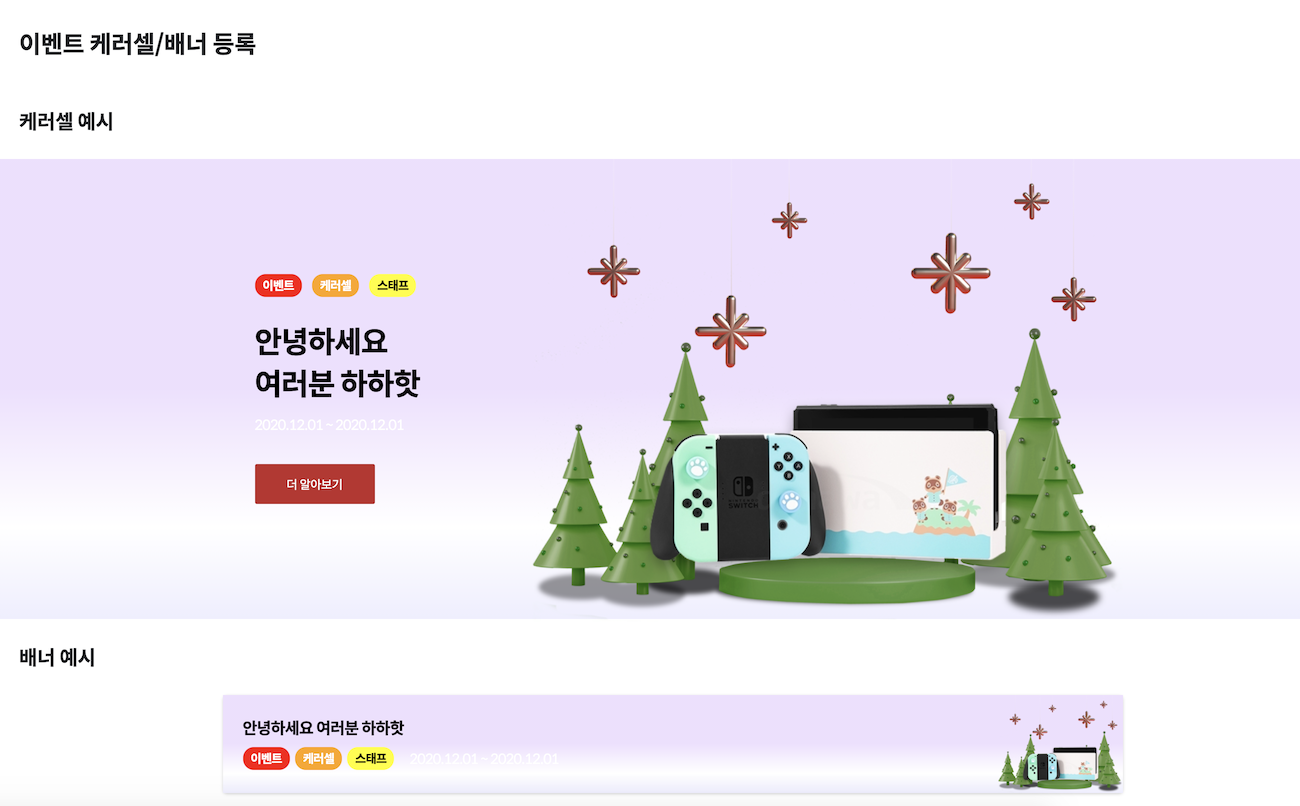
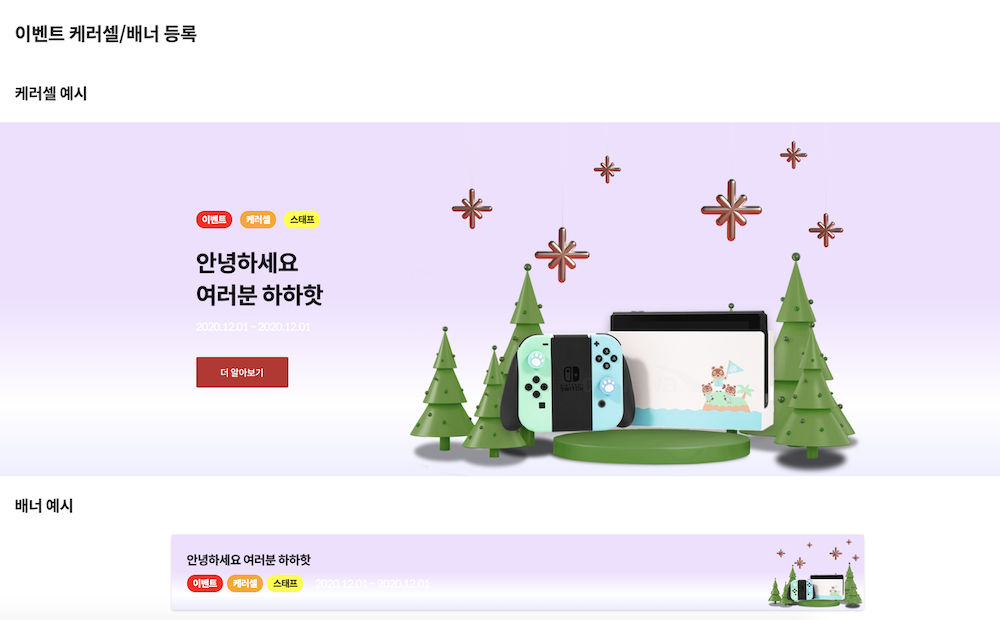
ADD: 회고분석 내용 추가

diff --git a/_posts/2021_01_28_internship-review3.md b/_posts/2021_01_28_internship-review3.md
@@ -6,15 +6,38 @@ description: 인턴 기간 찾아온 두 번째 위기
 ---
 2주마다 스프린트 회고 시간에 행복도 점수를 매기는데, 이번 2주의 행복도 점수를 5점 만점에 4.5점을 줬다! 일이 생각보다 오래 걸려 밀리는 경향이 있지만 모든 일이 새롭고 재밌다. 일만 재밌으면 3점일 텐데 같이 일하는 사람들이 너무 너무 좋아서 4점!(밥 먹고 노닥거리는 시간도 재밌다~) 그리고 눈도 안 와서 +0.5점 해서 4.5점이다.
 
-![행복합니다](/images/internship-3-안녕.jpg)
+![노는게 제일 좋아](/images/internship-3-안녕.jpg)
 
-## 인턴 적응기 <span style="color:#6741d9">(6주 차)</span>
+## <span style="color:#6741d9">분석왕</span> 채세이
+위에서 말했듯이 우리 팀은 2주마다 스프린트 회고 시간에 행복도 점수를 매긴다. 2020년 동안 총 22개의 스프린트가 쌓였는데, 이 데이터를 분석하기로 했다.
+
+1. raw data 만들기
+
+   처음에는 스프린트 X 사용자 해서 2차원 테이블로 만들었는데, 나중에 다양한 분석을 적용할 때나 데이터 추가에 따른 자동화를 위해서 1차원 테이블로 만들었다.
+   
+2. 정량적 분석
+   
+   숫자 데이터 행복도 점수가 있어서 이 정보로 정량적 분석을 진행했다. 함수를 이용해 평균, 표준편차 등을 계산하고 시계열 그래프와 Box Plot 등을 만들었다.
+
+   ![회고 분석](/images/internship-3-회고분석.png)
+   
+3. 정성적 분석과 분석자의 날카로운 의견
+   
+   그 후 상위/하위 각각 3개의 스프린트 리뷰와 총 리뷰를 읽으면서 멤버별로 분석자(나) 종합 의견을 정리했다. 분석을 위해 다른 사람의 리뷰를 읽다 보니 각각의 회사 연대기를 보는 거 같아서 재밌었다.
+   
+그렇게 분석을 끝내고 팀원들과 공유했는데 다들 반응이 좋아서 뿌듯했다.
+
+![회고 분석 반응](/images/internship-3-분석반응.png)
+
+
+## <span style="color:#6741d9">인턴 두 번째 위기</span>
+
 ### 네?? <span style="color:#6741d9">프런트</span>를 하라고요?
 <이벤트 케러셀 스태프 페이지 만들기>라는 업무를 받았을 때는 현재 있는 스태프 페이지를 수정하는 정도인 줄 알았다. 가벼운 마음으로 디자이너이신 미혜님과 얘기하는데 생각보다 (내 기준) 스케일이 큰일이라서 당황했다. 현재 이벤트가 있을 때마다 이벤트 케러셀과 배너를 하나씩 직접 만든다. 중복작업이 많기에 이를 자동화하는 스태프 페이지를 만들어달라는 것이 요구 사항이었다.
 
 으아아아아 Django 도 이제 익숙해져서 할 만한데 Vue.js를 이용한 프런트 작업이라니!!! 2학년 때 쇼핑몰 만들기 과제를 했던 기억이 떠올랐다. 그때 프런트의 매운맛을 맛보고 그 이후로 프런트를 해본 적이 없는데. 사실 스태프 페이지는 에잇퍼센트 서비스 이용자가 쓰는 것은 아니라서 그렇게 잘 만들 필요는 없지만 그래도 막막했다.
 
-게다가 프런트만 하는 게 아니라 백엔드 작업도 해야하고 결국에는 실제 에잇퍼센트 이벤트 케러셀과 배너 창에 적용해야 한다. 부담 **100** 을 넘어서 **10000** 에 이르러 인턴 두 번째 위기가 온거 같았지만 그래도 하고 싶은 마음이 더 컸다.
+게다가 프런트만 하는 게 아니라 백엔드 작업도 해야 하고 결국에는 실제 에잇퍼센트 이벤트 케러셀과 배너 창에 적용해야 한다. 부담 **100** 을 넘어서 **10000** 에 이르러 인턴 두 번째 위기가 온 거 같았지만 그래도 하고 싶은 마음이 더 컸다.
 
 ### 오랜만에 <span style="color:#6741d9">고3</span> 모드
 그날부터 Vue.js 책을 2권을 빌렸다. 학교 도서관에서 <Do it! Vue.js 입문>라는 책과 우리 팀에서 <Vue.js 철저 입문 : 기초부터 실전 애플리케이션 개발까지>라는 책을 빌렸다. 출퇴근 시간이 3시간인데 그 시간에 빌린 책을 읽었다. 퇴근 후나 주말에는 출/퇴근하면서 읽은 부분 예제를 연습했다. 학교 다닐 때보다 더 열심히 공부한 거 같다. Vue.js를 이렇게 일주일 정도 공부하니 드디어 현 케러셀과 배너 코드가 이해 가기 시작했고, 어떻게 만들어야 할지 감이 왔다.
@@ -28,9 +51,9 @@ description: 인턴 기간 찾아온 두 번째 위기
 
 2. 입력받은 속성값 바로 적용되도록 바꾸기
    
-    이미 고정된 속성값을 바탕으로 만든 케러셀과 배너이기에 수정이 필요했다. 스태프 페이지에서 input 으로 받은 값을 토대로 케러셀과 배너가 바뀌도록 만들어야 했다. Input을 받아 css 속성값을 바꾸는 부분이 헷갈렸는데 크게 2가지 방법 중 좀 더 보편적인 1번 방법을 이용했다.
+    이미 고정된 속성값을 바탕으로 만든 케러셀과 배너이기에 수정이 필요했다. 스태프 페이지에서 input으로 받은 값을 토대로 케러셀과 배너가 바뀌도록 만들어야 했다. Input을 받아 CSS 속성값을 바꾸는 부분이 헷갈렸는데 크게 2가지 방법 중 좀 더 보편적인 1번 방법을 이용했다.
     * input 태그로 받아 data에 저장된 속성값을 :style binding으로 넣어주기
-    * Computed 에서 ‘--[변수 이름]’: this.[input 태그로 받아 data에 저장된 속성 변수] 만든 후 style block에서 var(--[변수 이름]) 로 지정하기
+    * Computed에서 ‘--[변수 이름]’: this.[input 태그로 받아 data에 저장된 속성 변수] 만든 후 style block에서 var(--[변수 이름])로 지정하기
      
 3. 이미지 업로드 및 프리뷰 기능 구현하기
 
@@ -42,14 +65,14 @@ description: 인턴 기간 찾아온 두 번째 위기
    
 ![이벤트 스태프](/images/internship-3-이벤트.png)
 
-### 데모 발표표
-<이벤트 케러셀 스태프 페이지 만들기> 첫번째 목표인 관리자 어드민 페이지 프런트 작업이 끝난 당일 데모가 있었다. 각자 만든 기능을 다 같이 공유하는 시간이다. 계획에는 없었지만, 데모에 내가 만든 스태프 페이지를 보여주며 발표하기로 했다…!! 다들 아주 잘 만들었다고 원하던 기능이 싹 다 있다고 수고했다고 하셨다. 잘 마무리해서 다행이다. 모두 가이드를 잡아 주시고 물어보는 것마다 다 대답해주신 동현님과 연오님 덕분이다. 앞으로 남은 부분도 잘 마무리하고 가야겠다.
+### <span style="color:#6741d9">데모 발표</span>
+<이벤트 케러셀 스태프 페이지 만들기> 첫 번째 목표인 관리자 어드민 페이지 프런트 작업이 끝난 당일 데모가 있었다. 각자 만든 기능을 다 같이 공유하는 시간이다. 계획에는 없었지만, 데모에 내가 만든 스태프 페이지를 보여주며 발표하기로 했다…!! 다들 아주 잘 만들었다고 원하던 기능이 싹 다 있다고 수고했다고 하셨다. 잘 마무리해서 다행이다. 모두 가이드를 잡아 주시고 물어보는 것마다 다 대답해주신 동현님과 연오님 덕분이다. 앞으로 남은 부분도 잘 마무리하고 가야겠다.
 
 ![데모발표](/images/internship-3-데모발표.jpg)
 
 ## <span style="color:#6741d9">에피소드</span>
 ### 성균관대 동계 인턴십 - Finternet 네트워킹 행사
-나랑 같이 인턴 오신 분이 있다. 같은 학교 같은 나이 같은 인턴이라는 점 때문에 금방 친해졌다. (혹시 같이 인턴 온 미연님의 글이 궁금하다면 —> [8퍼센트의 새로운 희망, 인턴 박미연](https://brunch.co.kr/@8percent/138)) 미연님과 친해지면서 다른 회사 인턴분들도 너무 궁금했다. 그런데 마침 인턴끼리 네트워킹 행사가 열렸다. 서울 핀테크랩에 있는 기업 인턴들과 함께 스타트업 창업자 및 실무자 강연을 듣고 실무자와 소그룹 직무별 멘토링 시간을 가졌다. 코로나 때문에 온라인으로 열려서 좀 아쉬웠지만 그래도 매우 유익한 시간이었다.
+나랑 같이 인턴 오신 분이 있다. 같은 학교 같은 인턴이라는 점 때문에 금방 친해졌다. (혹시 같이 인턴 온 미연님의 글이 궁금하다면 —> [8퍼센트의 새로운 희망, 인턴 박미연](https://brunch.co.kr/@8percent/138)) 미연님과 친해지면서 다른 회사 인턴분들도 너무 궁금했다. 그런데 마침 인턴끼리 네트워킹 행사가 열렸다. 서울 핀테크랩에 있는 기업 인턴들과 함께 스타트업 창업자 및 실무자 강연을 듣고 실무자와 소그룹 직무별 멘토링 시간을 가졌다. 코로나 때문에 온라인으로 열려서 좀 아쉬웠지만 그래도 매우 유익한 시간이었다.
 
-### 새로운 손님이 오십니다
-인턴 기간에 개발자 면접을 보는 것을 몇 번 보았다. 면접 과정을 저 멀리서 지켜보면서 다시 복학하면 엄청 열심히 공부해야겠다는 생각이 많이 들었다. 취준생이 절실히 취업하길 원하는 만큼 기업도 좋은 개발자를 뽑기 위해 많은 노력을 하는 게 느껴졌다. 그렇게 면접을 뚫고 오시는 3분이 계시는데 2월 1일 월요일에 2분이나 오신다. 나와 업무를 같이 할 일은 없겠지만 그래도 뭔가 기대된다. 오시기 전 주 금요일에 사무실에 출근하신 분들과 함께 자리를 만들고 셋팅도 했다. 첫 출근을 기분 좋게 시작하셨으면 하는 마음에 열심히 모니터도 닦았다.<span style="color:#6741d9">슥싹슥싹</span>
+### 새로운 분이 오십니다
+인턴 기간에 개발자 면접을 보는 것을 몇 번 보았다. 면접 과정을 저 멀리서 지켜보면서 다시 복학하면 엄청 열심히 공부해야겠다는 생각이 많이 들었다. 취준생이 절실히 취업하길 원하는 만큼 기업도 좋은 개발자를 뽑기 위해 많은 노력을 하는 게 느껴졌다. 그렇게 면접을 뚫고 오시는 3분이 계시는데 2월 1일 월요일에 2분이나 오신다. 나와 업무를 같이 할 일은 없겠지만 그래도 뭔가 기대된다. 오시기 전 주 금요일에 사무실에 출근하신 분들과 함께 자리를 만들고 셋팅도 했다. 첫 출근을 기분 좋게 시작하셨으면 하는 마음에 열심히 모니터도 닦았다. <span style="color:#6741d9">슥싹슥싹</span>
